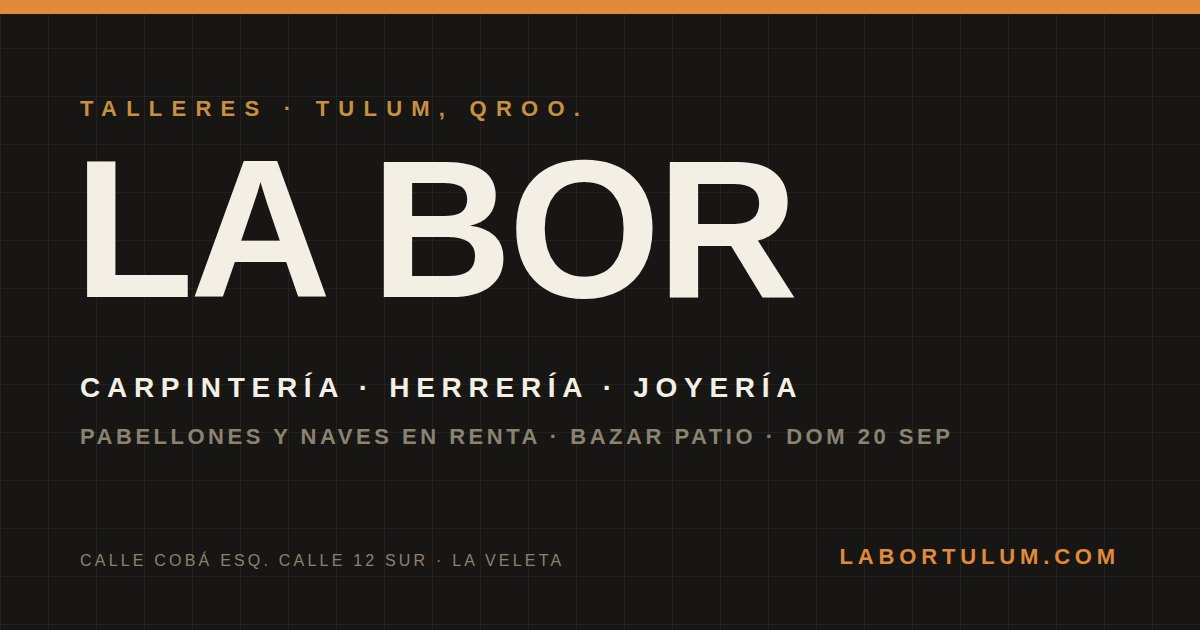
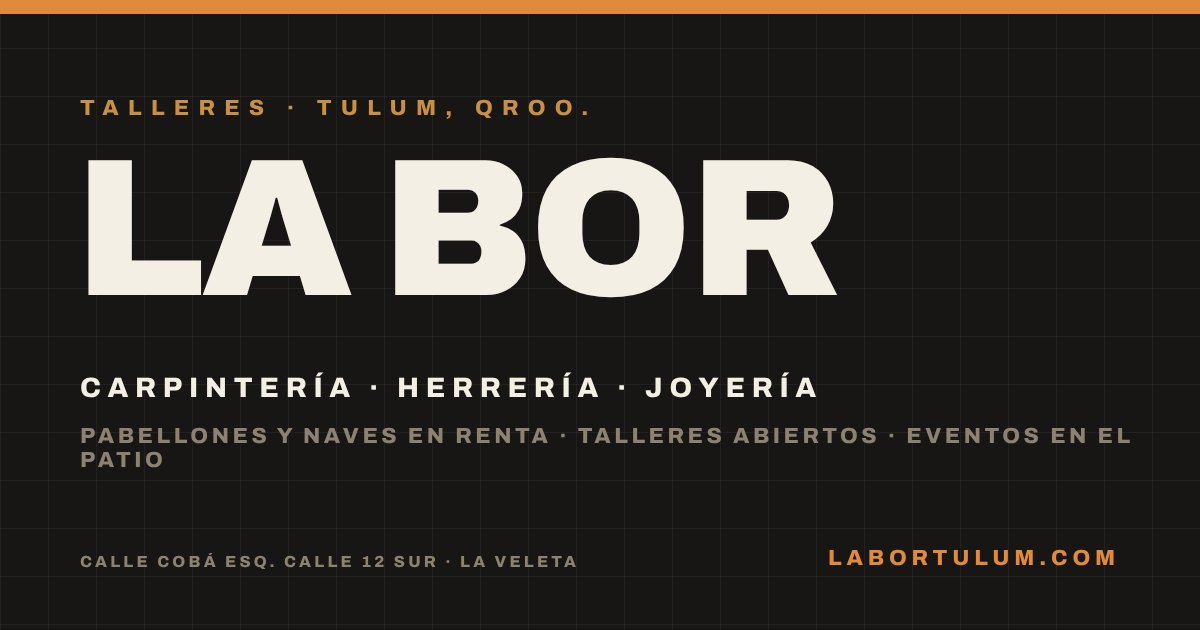
PATIO pasa a evidencia: ciclo de vida de eventos (próximo / hoy / pasado)
- events.ts: eventStatus, pastEvents, lastEvent, eventArchiveLabel; el
  evento guarda edición y recap. Se retira el forzado mounted (el patio
  se monta solo el día del evento).
- Sin próximo evento, el último se queda como evidencia: fila ÚLTIMO EN EL
  PATIO · YA PASÓ en el menú y pop-up con el cartel sellado "YA PASÓ ·
  20 SEP 2026", recap y CTAs AVISARME DEL PRÓXIMO / QUIERO UN STAND EN EL
  PRÓXIMO / PROPONER UN EVENTO (sin VOY ni calendario).
- /acerca/: sección "Eventos en el patio · ediciones anteriores", FAQ
  "¿Hay eventos en La Bor?", títulos y descripciones sin fecha futura.
  JSON-LD (index y acerca): FAQ y Event como 1ª edición. Sitemap y OG sin
  la fecha del bazar. README con la lógica.
- Prueba de ciclo de vida 15/15 (hoy, 17 sep y 20 sep con reloj fijo).

Claude-Session: https://claude.ai/code/session_01Y6s4hhFLXpUvd4QRDy2s3j

diff --git a/public/acerca/index.html b/public/acerca/index.html
@@ -3,8 +3,8 @@
   <head>
     <meta charset="UTF-8" />
     <meta name="viewport" content="width=device-width, initial-scale=1.0, maximum-scale=1.0, user-scalable=no, viewport-fit=cover" />
-    <title>Acerca de La Bor · Talleres, espacios en renta, bazar PATIO y ubicación en Tulum</title>
-    <meta name="description" content="Qué es La Bor, quiénes son sus talleres (VETA, MANNNO, CONTRASTE), cuánto cuesta rentar un pabellón o una nave en La Veleta, Tulum, cuándo es el bazar PATIO y cómo llegar. Contacto directo por WhatsApp." />
+    <title>Acerca de La Bor · Talleres, espacios en renta, eventos y ubicación en Tulum</title>
+    <meta name="description" content="Qué es La Bor, quiénes son sus talleres (VETA, MANNNO, CONTRASTE), cuánto cuesta rentar un pabellón o una nave en La Veleta, Tulum, qué fue el bazar PATIO y cómo llegar. Contacto directo por WhatsApp." />
     <meta name="keywords" content="talleres creativos Tulum, carpintería Tulum, herrería Tulum, joyería Tulum, renta de taller Tulum, nave en renta Tulum, estudio en renta La Veleta, bazar Tulum, La Bor, LaBor Tulum" />
     <link rel="canonical" href="https://www.labortulum.com/acerca/" />
     <meta name="robots" content="index, follow, max-image-preview:large, max-snippet:-1, max-video-preview:-1" />
@@ -16,16 +16,16 @@
     <meta property="og:type" content="article" />
     <meta property="og:site_name" content="La Bor — Talleres" />
     <meta property="og:locale" content="es_MX" />
-    <meta property="og:title" content="Acerca de La Bor · Talleres, espacios en renta, bazar PATIO y ubicación en Tulum" />
-    <meta property="og:description" content="Qué es La Bor, quiénes son sus talleres (VETA, MANNNO, CONTRASTE), cuánto cuesta rentar un pabellón o una nave en La Veleta, Tulum, cuándo es el bazar PATIO y cómo llegar. Contacto directo por WhatsApp." />
+    <meta property="og:title" content="Acerca de La Bor · Talleres, espacios en renta, eventos y ubicación en Tulum" />
+    <meta property="og:description" content="Qué es La Bor, quiénes son sus talleres (VETA, MANNNO, CONTRASTE), cuánto cuesta rentar un pabellón o una nave en La Veleta, Tulum, qué fue el bazar PATIO y cómo llegar. Contacto directo por WhatsApp." />
     <meta property="og:url" content="https://www.labortulum.com/acerca/" />
     <meta property="og:image" content="https://www.labortulum.com/og/labor-og.jpg" />
     <meta property="og:image:width" content="1200" />
     <meta property="og:image:height" content="630" />
     <meta property="og:image:alt" content="La Bor — Talleres creativos en Tulum" />
     <meta name="twitter:card" content="summary_large_image" />
-    <meta name="twitter:title" content="Acerca de La Bor · Talleres, espacios en renta, bazar PATIO y ubicación en Tulum" />
-    <meta name="twitter:description" content="Qué es La Bor, quiénes son sus talleres (VETA, MANNNO, CONTRASTE), cuánto cuesta rentar un pabellón o una nave en La Veleta, Tulum, cuándo es el bazar PATIO y cómo llegar. Contacto directo por WhatsApp." />
+    <meta name="twitter:title" content="Acerca de La Bor · Talleres, espacios en renta, eventos y ubicación en Tulum" />
+    <meta name="twitter:description" content="Qué es La Bor, quiénes son sus talleres (VETA, MANNNO, CONTRASTE), cuánto cuesta rentar un pabellón o una nave en La Veleta, Tulum, qué fue el bazar PATIO y cómo llegar. Contacto directo por WhatsApp." />
     <meta name="twitter:image" content="https://www.labortulum.com/og/labor-og.jpg" />
     <meta name="theme-color" content="#171614" />
     <meta name="apple-mobile-web-app-capable" content="yes" />
@@ -294,7 +294,7 @@
     {
       "@type": "Event",
       "@id": "https://www.labortulum.com/#patio-2026-09-20",
-      "name": "PATIO — Open workshop y bazar creativo en La Bor",
+      "name": "PATIO — Open workshop y bazar creativo en La Bor (1ª edición)",
       "startDate": "2026-09-20T17:00:00-05:00",
       "endDate": "2026-09-20T23:00:00-05:00",
       "eventStatus": "https://schema.org/EventScheduled",
@@ -302,7 +302,7 @@
       "image": [
         "https://www.labortulum.com/assets/events/patio-2026-09-20.jpg"
       ],
-      "description": "Bazar en el patio de La Bor con los talleres abiertos: diseño, objetos, comida, joyería, arte, moda y más. Domingo 20 de septiembre de 2026, de 5 a 11 pm. Entrada libre.",
+      "description": "Primera edición del bazar en el patio de La Bor con los talleres abiertos: diseño, objetos, comida, joyería, arte, moda y más. Domingo 20 de septiembre de 2026, de 5 a 11 pm. Entrada libre.",
       "location": {
         "@type": "Place",
         "name": "La Bor — Talleres",
@@ -343,7 +343,7 @@
         "price": "0",
         "priceCurrency": "MXN",
         "availability": "https://schema.org/InStock",
-        "url": "https://www.labortulum.com/acerca/#patio",
+        "url": "https://www.labortulum.com/acerca/#eventos",
         "validFrom": "2026-09-01T00:00:00-05:00"
       },
       "isAccessibleForFree": true,
@@ -387,10 +387,10 @@
         },
         {
           "@type": "Question",
-          "name": "¿Cuándo es el bazar PATIO?",
+          "name": "¿Hay eventos en La Bor?",
           "acceptedAnswer": {
             "@type": "Answer",
-            "text": "El domingo 20 de septiembre de 2026, de 5:00 a 11:00 pm, en el patio de La Bor. Open workshop y bazar creativo con diseño, objetos, comida, joyería, arte y moda. Entrada libre."
+            "text": "Sí. La primera edición del bazar PATIO fue el domingo 20 de septiembre de 2026, de 5 a 11 pm, con los tres talleres abiertos y entrada libre. El próximo evento se anuncia en labortulum.com y por WhatsApp al +52 55 3037 4167."
           }
         },
         {
@@ -477,7 +477,7 @@
           <a class="btn btn--plain" href="https://maps.app.goo.gl/6VRuvk6EfHDT1byW8" target="_blank" rel="noreferrer">CÓMO LLEGAR · GOOGLE MAPS</a>
         </div>
         <nav class="toc" aria-label="Secciones">
-          <a href="#talleres">TALLERES</a><a href="#espacios">ESPACIOS EN RENTA</a><a href="#patio">BAZAR PATIO</a><a href="#ubicacion">UBICACIÓN</a><a href="#faq">PREGUNTAS</a><a href="#contacto">CONTACTO</a>
+          <a href="#talleres">TALLERES</a><a href="#espacios">ESPACIOS EN RENTA</a><a href="#eventos">EVENTOS</a><a href="#ubicacion">UBICACIÓN</a><a href="#faq">PREGUNTAS</a><a href="#contacto">CONTACTO</a>
         </nav>
       </header>
 
@@ -539,17 +539,18 @@
         </div>
       </section>
 
-      <section id="patio">
-        <h2>Bazar PATIO · domingo 20 de septiembre</h2>
+      <section id="eventos">
+        <h2>Eventos en el patio · ediciones anteriores</h2>
         <figure>
-          <img src="/assets/events/patio-2026-09-20.jpg" width="900" height="1600" alt="Cartel del bazar PATIO en La Bor: domingo 20 de septiembre, 5 a 11 pm, La Veleta, Tulum" loading="lazy" />
-          <figcaption>Open workshop / creative bazaar · Design · Objects · Food · People · Jewelry · Art · Fashion &amp; more.</figcaption>
+          <img src="/assets/events/patio-2026-09-20.jpg" width="900" height="1600" alt="Cartel de PATIO, primera edición del bazar en La Bor: domingo 20 de septiembre de 2026, La Veleta, Tulum" loading="lazy" />
+          <figcaption>PATIO · 1ª edición · domingo 20 de septiembre de 2026 · ya pasó.</figcaption>
         </figure>
-        <p><strong>Domingo 20 de septiembre de 2026, de 5:00 a 11:00 pm</strong>, en el patio de La Bor (La Veleta, Tulum). Los talleres abren sus puertas y el patio se llena de marcas invitadas, comida y música. Entrada libre.</p>
+        <p>La primera edición de <strong>PATIO</strong> abrió los tres talleres al público una tarde de domingo: diseño, objetos, comida, joyería, arte y moda en el patio de La Bor, con entrada libre. Fue la prueba de que aquí pasan cosas.</p>
+        <p>El próximo evento se anuncia en esta página, en el recorrido y por WhatsApp. Si quieres que te avisemos o poner un stand en el siguiente, escríbenos.</p>
         <div class="btns">
-          <a class="btn btn--primary" href="https://wa.me/525530374167?text=Hola%20La%20Bor%2C%20voy%20al%20bazar%20PATIO%20el%20domingo%2020%20de%20septiembre%20%285%20a%2011%20pm%29.%20Somos%20___%20personas." target="_blank" rel="noreferrer">VOY · CONFIRMAR POR WHATSAPP</a>
-          <a class="btn" href="https://wa.me/525530374167?text=Hola%20La%20Bor%2C%20quiero%20poner%20un%20stand%20en%20el%20bazar%20PATIO%20del%20domingo%2020%20de%20septiembre.%20Mi%20marca%20/%20lo%20que%20vendo%3A%20___." target="_blank" rel="noreferrer">QUIERO PONER UN STAND</a>
-          <a class="btn btn--plain" href="https://calendar.google.com/calendar/render?action=TEMPLATE&amp;text=PATIO+%C2%B7+BAZAR+en+La+Bor&amp;dates=20260920T220000Z/20260921T040000Z&amp;details=Bazar+en+el+patio+de+La+Bor+con+los+talleres+abiertos.+Entrada+libre.&amp;location=La+Bor%2C+Calle+Cob%C3%A1+esq.+Calle+12+Sur%2C+La+Veleta%2C+Tulum" target="_blank" rel="noreferrer">AGREGAR AL CALENDARIO</a>
+          <a class="btn btn--primary" href="https://wa.me/525530374167?text=Hola%20La%20Bor%2C%20av%C3%ADsenme%20del%20pr%C3%B3ximo%20evento%20en%20el%20patio.%20Me%20interesa%3A%20___%20(ir%20%2F%20poner%20stand)." target="_blank" rel="noreferrer">AVISARME DEL PRÓXIMO</a>
+          <a class="btn" href="https://wa.me/525530374167?text=Hola%20La%20Bor%2C%20quiero%20poner%20un%20stand%20en%20el%20pr%C3%B3ximo%20bazar%20PATIO.%20Mi%20marca%20%2F%20lo%20que%20vendo%3A%20___." target="_blank" rel="noreferrer">QUIERO UN STAND EN EL PRÓXIMO</a>
+          <a class="btn btn--plain" href="https://wa.me/525530374167?text=Hola%20La%20Bor%2C%20quiero%20proponer%20un%20evento%20en%20el%20patio%3A%20___%20(fecha%20tentativa%3A%20___)." target="_blank" rel="noreferrer">PROPONER UN EVENTO</a>
         </div>
       </section>
 
@@ -574,7 +575,7 @@
         <details><summary>¿Dónde está?</summary><p>En Calle Cobá esquina Calle 12 Sur, La Veleta, Tulum, Quintana Roo (CP 77760). <a href="https://maps.app.goo.gl/6VRuvk6EfHDT1byW8" target="_blank" rel="noreferrer">Ver en Google Maps</a>.</p></details>
         <details><summary>¿Cuánto cuesta rentar un pabellón o una nave?</summary><p>Pabellones chicos (42–46 m²): $8,000 MXN al mes con contrato de un año o $10,000 a seis meses. Pabellones grandes (80 m² con terraza): $12,000 al mes a un año o $15,000 a seis meses. Naves de 95 a 117 m²: a cotizar. Precios de referencia; se confirman por WhatsApp.</p></details>
         <details><summary>¿Qué talleres hay?</summary><p>VETA (carpintería, Pablo: +52 33 3350 7799), MANNNO (herrería, Azul: +52 33 1266 3462) y CONTRASTE ATELIER (joyería, Emilio: +52 55 3037 4167).</p></details>
-        <details><summary>¿Cuándo es el bazar PATIO?</summary><p>El domingo 20 de septiembre de 2026, de 5 a 11 pm, en el patio de La Bor. Entrada libre.</p></details>
+        <details><summary>¿Hay eventos en La Bor?</summary><p>Sí. La primera edición del bazar PATIO fue el domingo 20 de septiembre de 2026 (5 a 11 pm, entrada libre), con los tres talleres abiertos. El próximo se anuncia en labortulum.com y por WhatsApp al +52 55 3037 4167.</p></details>
         <details><summary>¿Cómo agendo una visita o pido informes?</summary><p>Por WhatsApp al +52 55 3037 4167 o por correo a labortulum@gmail.com. O entra al <a href="/">recorrido</a> y habla con la persona de cada taller.</p></details>
         <details><summary>¿Qué es el recorrido de labortulum.com?</summary><p>Un recorrido 2D del complejo real, trazado a partir del plano: caminas por el patio, entras a los talleres, juegas para armar el reloj de sol LA HORA y contactas a cada taller por WhatsApp desde el mismo juego.</p></details>
       </section>

diff --git a/src/components/experience/EventPopup.tsx b/src/components/experience/EventPopup.tsx
@@ -1,5 +1,5 @@
-import { calendarUrl, eventDateLabel, eventRelativeLabel, eventTimeLabel, nextEvent } from "../../data/events"
-import { eventProposalLink, mapsLink, rsvpLink, vendorLink } from "../../data/leads"
+import { calendarUrl, eventArchiveLabel, eventDateLabel, eventRelativeLabel, eventTimeLabel, lastEvent, nextEvent } from "../../data/events"
+import { eventProposalLink, mapsLink, notifyNextEventLink, rsvpLink, vendorLink, vendorNextEventLink } from "../../data/leads"
 import { CONTACT } from "../../data/spaces"
 
 interface EventPopupProps {
@@ -13,8 +13,10 @@ interface EventPopupProps {
  */
 export function EventPopup({ onClose }: EventPopupProps) {
   const ev = nextEvent()
+  // sin próximo: el último que pasó se queda como evidencia (cartel con sello YA PASÓ)
+  const past = ev ? null : lastEvent()
   return (
-    <div className="popup" role="dialog" aria-modal="true" aria-label={ev ? `${ev.kind} ${ev.name}` : "Eventos"}>
+    <div className="popup" role="dialog" aria-modal="true" aria-label={ev ? `${ev.kind} ${ev.name}` : past ? `${past.kind} ${past.name} · ya pasó` : "Eventos"}>
       <button type="button" className="popup__backdrop" onClick={onClose} aria-label="Cerrar" />
       <div className="popup__card">
         <button type="button" className="overlay__close popup__close" onClick={onClose} aria-label="Cerrar">
@@ -47,6 +49,38 @@ export function EventPopup({ onClose }: EventPopupProps) {
                 </a>
               </div>
               <p className="popup__legend">Entrada libre · Dudas por WhatsApp {CONTACT.phoneDisplay}</p>
+            </div>
+          </>
+        ) : past ? (
+          <>
+            {past.poster && (
+              <div className="popup__poster-wrap">
+                <img className="popup__poster popup__poster--past" src={past.poster} alt={`Cartel ${past.kind} ${past.name}, ${eventArchiveLabel(past)}`} />
+                <span className="popup__stamp">YA PASÓ · {eventArchiveLabel(past)}</span>
+              </div>
+            )}
+            <div className="popup__body">
+              <p className="popup__kicker">
+                ÚLTIMO EN EL PATIO · {past.kind}
+                {past.edition ? ` · ${past.edition}` : ""}
+              </p>
+              <p className="popup__when">
+                {eventDateLabel(past)} {past.date.slice(0, 4)} · {eventTimeLabel(past)}
+              </p>
+              {past.recap && <p className="popup__place">{past.recap}</p>}
+              {past.lineup && <p className="popup__lineup">{past.lineup}</p>}
+              <div className="popup__ctas">
+                <a className="overlay__cta overlay__cta--primary overlay__cta--wa" href={notifyNextEventLink()} target="_blank" rel="noreferrer">
+                  AVISARME DEL PRÓXIMO
+                </a>
+                <a className="overlay__cta" href={vendorNextEventLink()} target="_blank" rel="noreferrer">
+                  QUIERO UN STAND EN EL PRÓXIMO
+                </a>
+                <a className="overlay__cta overlay__cta--plain" href={eventProposalLink()} target="_blank" rel="noreferrer">
+                  PROPONER UN EVENTO
+                </a>
+              </div>
+              <p className="popup__legend">El próximo se anuncia aquí y por WhatsApp {CONTACT.phoneDisplay}</p>
             </div>
           </>
         ) : (

diff --git a/index.html b/index.html
@@ -294,7 +294,7 @@
     {
       "@type": "Event",
       "@id": "https://www.labortulum.com/#patio-2026-09-20",
-      "name": "PATIO — Open workshop y bazar creativo en La Bor",
+      "name": "PATIO — Open workshop y bazar creativo en La Bor (1ª edición)",
       "startDate": "2026-09-20T17:00:00-05:00",
       "endDate": "2026-09-20T23:00:00-05:00",
       "eventStatus": "https://schema.org/EventScheduled",
@@ -302,7 +302,7 @@
       "image": [
         "https://www.labortulum.com/assets/events/patio-2026-09-20.jpg"
       ],
-      "description": "Bazar en el patio de La Bor con los talleres abiertos: diseño, objetos, comida, joyería, arte, moda y más. Domingo 20 de septiembre de 2026, de 5 a 11 pm. Entrada libre.",
+      "description": "Primera edición del bazar en el patio de La Bor con los talleres abiertos: diseño, objetos, comida, joyería, arte, moda y más. Domingo 20 de septiembre de 2026, de 5 a 11 pm. Entrada libre.",
       "location": {
         "@type": "Place",
         "name": "La Bor — Talleres",
@@ -343,7 +343,7 @@
         "price": "0",
         "priceCurrency": "MXN",
         "availability": "https://schema.org/InStock",
-        "url": "https://www.labortulum.com/acerca/#patio",
+        "url": "https://www.labortulum.com/acerca/#eventos",
         "validFrom": "2026-09-01T00:00:00-05:00"
       },
       "isAccessibleForFree": true,
@@ -387,10 +387,10 @@
         },
         {
           "@type": "Question",
-          "name": "¿Cuándo es el bazar PATIO?",
+          "name": "¿Hay eventos en La Bor?",
           "acceptedAnswer": {
             "@type": "Answer",
-            "text": "El domingo 20 de septiembre de 2026, de 5:00 a 11:00 pm, en el patio de La Bor. Open workshop y bazar creativo con diseño, objetos, comida, joyería, arte y moda. Entrada libre."
+            "text": "Sí. La primera edición del bazar PATIO fue el domingo 20 de septiembre de 2026, de 5 a 11 pm, con los tres talleres abiertos y entrada libre. El próximo evento se anuncia en labortulum.com y por WhatsApp al +52 55 3037 4167."
           }
         },
         {
@@ -421,7 +421,7 @@
       <main style="font-family: Arial, sans-serif; padding: 24px; max-width: 720px; margin: 0 auto; color: #f4efe4; background: #171614">
         <h1>La Bor — Talleres creativos en Tulum</h1>
         <p>Complejo de talleres en La Veleta, Tulum: VETA (carpintería), MANNNO (herrería) y CONTRASTE ATELIER (joyería). Pabellones y naves en renta desde $8,000 MXN al mes y un patio de eventos. El recorrido interactivo necesita JavaScript.</p>
-        <p><a href="/acerca/" style="color: #e08a3c">Toda la información: talleres, espacios, precios, bazar PATIO, ubicación y contacto</a></p>
+        <p><a href="/acerca/" style="color: #e08a3c">Toda la información: talleres, espacios, precios, eventos, ubicación y contacto</a></p>
         <p>WhatsApp <a href="https://wa.me/525530374167" style="color: #e08a3c">+52 55 3037 4167</a> · <a href="mailto:labortulum@gmail.com" style="color: #e08a3c">labortulum@gmail.com</a></p>
       </main>
     </noscript>

diff --git a/src/data/events.ts b/src/data/events.ts
@@ -23,7 +23,12 @@ export interface LaborEvent {
   lineup?: string
   /** el patio ya muestra el evento montado (si no, se monta solo el día del evento) */
   mounted?: boolean
+  /** edición ("1ª EDICIÓN") y resumen de cómo fue: se muestran cuando el evento ya pasó (evidencia) */
+  edition?: string
+  recap?: string
 }
+
+export type EventStatus = "upcoming" | "today" | "live" | "past"
 
 export const EVENTS: LaborEvent[] = [
   {
@@ -37,9 +42,11 @@ export const EVENTS: LaborEvent[] = [
     poster: "/assets/events/patio-2026-09-20.jpg",
     tagline: "OPEN WORKSHOP / CREATIVE BAZAAR",
     lineup: "DESIGN · OBJECTS · FOOD · PEOPLE · JEWELRY · ART · FASHION & MORE",
-    mounted: true,
+    edition: "1ª EDICIÓN",
     description:
       "Bazar en el patio con los talleres abiertos: joyería de CONTRASTE, madera de VETA, metal de MANNNO y marcas invitadas. Entrada libre.",
+    recap:
+      "La primera edición de PATIO abrió los tres talleres al público una tarde de domingo: diseño, objetos, comida, joyería, arte y moda en el patio de La Bor. Fue la prueba de que aquí pasan cosas. El próximo se anuncia aquí y por WhatsApp.",
   },
 ]
 
@@ -130,4 +137,29 @@ export function eventSoonLabel(ev: LaborEvent, now: Date = new Date()): string {
 /** el evento ya está montado en el patio: forzado con `mounted` o el mismo día */
 export function isEventMounted(ev: LaborEvent, now: Date = new Date()): boolean {
   return ev.mounted === true || daysUntil(ev, now).days <= 0
+}
+
+/** estado del evento según el calendario de Tulum: próximo, hoy, en curso o pasado */
+export function eventStatus(ev: LaborEvent, now: Date = new Date()): EventStatus {
+  const start = localDate(ev, ev.start).getTime()
+  const end = localDate(ev, ev.end).getTime()
+  const t = now.getTime()
+  if (t >= end) return "past"
+  if (t >= start) return "live"
+  return daysUntil(ev, now).days <= 0 ? "today" : "upcoming"
+}
+
+/** eventos que ya pasaron, del más reciente al más antiguo (ediciones anteriores) */
+export function pastEvents(now: Date = new Date()): LaborEvent[] {
+  return EVENTS.filter((e) => !isUpcoming(e, now)).sort((a, b) => b.date.localeCompare(a.date))
+}
+
+export function lastEvent(now: Date = new Date()): LaborEvent | null {
+  return pastEvents(now)[0] ?? null
+}
+
+/** "20 SEP 2026": fecha corta con año, para ediciones anteriores */
+export function eventArchiveLabel(ev: LaborEvent): string {
+  const [y, m, d] = ev.date.split("-").map(Number)
+  return `${d} ${MONTHS[m - 1].slice(0, 3)} ${y}`
 }

diff --git a/src/components/experience/FastMenu.tsx b/src/components/experience/FastMenu.tsx
@@ -1,5 +1,5 @@
 import { AVAILABLE, CONTACT, RESIDENTS, mailLink, whatsappLink } from "../../data/spaces"
-import { eventShortLabel, nextEvent } from "../../data/events"
+import { eventArchiveLabel, eventShortLabel, lastEvent, nextEvent } from "../../data/events"
 import { fromPrice, mapsLink, mxn } from "../../data/leads"
 import { PIEZA_CENTRAL } from "../../data/missions"
 import { UNLOCK_MISSION_ID } from "../../data/music"
@@ -33,6 +33,7 @@ export function FastMenu({ open, setOpen, onTravel, onDirect, onChangeAvatar }: 
   // la pista se desbloquea al terminar LA HORA (queda en el perfil)
   const unlocked = (prof.completed[UNLOCK_MISSION_ID] ?? 0) > 0 || run?.completed === true
   const ev = nextEvent()
+  const past = ev ? null : lastEvent()
 
   const Item = ({ id, label, meta, direct, reserved }: { id: string; label: string; meta?: string; direct?: boolean; reserved?: boolean }) => {
     const visited = prof.visited.includes(id)
@@ -91,6 +92,22 @@ export function FastMenu({ open, setOpen, onTravel, onDirect, onChangeAvatar }: 
                         {ev.kind} · {ev.name}
                       </span>
                       <span className="menu__item-meta">{eventShortLabel(ev)}</span>
+                    </button>
+                  </li>
+                </ul>
+              </>
+            )}
+
+            {!ev && past && (
+              <>
+                <p className="menu__section">ÚLTIMO EN EL PATIO</p>
+                <ul className="menu__list">
+                  <li>
+                    <button type="button" className="menu__item menu__item--past" onClick={() => onDirect("eventos-board")}>
+                      <span className="menu__item-label">
+                        {past.kind} · {past.name}
+                      </span>
+                      <span className="menu__item-meta">{eventArchiveLabel(past)} · YA PASÓ</span>
                     </button>
                   </li>
                 </ul>

diff --git a/src/styles/game.css b/src/styles/game.css
@@ -1598,3 +1598,30 @@
     padding-top: 4px;
   }
 }
+
+/* ---- evento pasado: cartel con sello (evidencia) ----------------------- */
+.popup__poster-wrap {
+  position: relative;
+}
+.popup__poster--past {
+  filter: saturate(0.82) contrast(0.96);
+}
+.popup__stamp {
+  position: absolute;
+  top: 16px;
+  left: 16px;
+  transform: rotate(-7deg);
+  padding: 7px 11px;
+  border: 2px solid var(--rust);
+  border-radius: 4px;
+  background: rgba(244, 239, 228, 0.88);
+  color: var(--rust);
+  font-size: 11px;
+  font-weight: 900;
+  letter-spacing: 0.18em;
+  text-indent: 0.18em;
+  box-shadow: 0 6px 18px rgba(0, 0, 0, 0.2);
+}
+.menu__item--past .menu__item-meta {
+  color: var(--muted-2);
+}

diff --git a/src/data/leads.ts b/src/data/leads.ts
@@ -101,3 +101,12 @@ export function instagramHandle(url: string): string {
   const m = url.match(/instagram\.com\/([^/?#]+)/)
   return m ? `@${m[1]}` : "INSTAGRAM"
 }
+
+/** lista para el próximo evento del patio (cuando no hay fecha anunciada) */
+export function notifyNextEventLink(): string {
+  return whatsappLink("Hola La Bor, avísenme del próximo evento en el patio. Me interesa: ___ (ir / poner stand).")
+}
+
+export function vendorNextEventLink(): string {
+  return whatsappLink("Hola La Bor, quiero poner un stand en el próximo bazar PATIO. Mi marca / lo que vendo: ___.")
+}

diff --git a/README.md b/README.md
@@ -176,6 +176,18 @@ pausar se recuerda en `labor.audio.v1`. Para agregar pistas basta añadirlas a `
   exclamación ocre entra con pop, rebota y manda un anillo cada 2.4 s sobre el
   letrero de eventos; el aviso de entrada dice "¡MIRA EL LETRERO!". Se disuelve
   con chispas al abrir el anuncio (una vez por visita).
+- **Ciclo de vida de eventos** (`src/data/events.ts`): cada evento pasa solo
+  por próximo → hoy → en curso → pasado (`eventStatus`, `nextEvent`,
+  `lastEvent`, `pastEvents`). Con un evento próximo: aviso al entrar, "!" en
+  el letrero, fila PRÓXIMO EN EL PATIO en el menú, pop-up con cartel y CTAs
+  (VOY, STAND, CALENDARIO, CÓMO LLEGAR) y montaje con cajas en el patio. El
+  día del evento: bazar montado. Cuando pasa: el patio vuelve a la normalidad
+  y el último evento se queda como **evidencia** (fila ÚLTIMO EN EL PATIO ·
+  YA PASÓ, pop-up con el cartel sellado "YA PASÓ · 20 SEP 2026", edición y
+  `recap`, CTAs AVISARME DEL PRÓXIMO / STAND EN EL PRÓXIMO / PROPONER). En
+  `/acerca/` vive la sección "Eventos en el patio · ediciones anteriores".
+  Para anunciar el siguiente basta agregar un objeto a `EVENTS` (y su cartel
+  en `public/assets/events/`), y actualizar `/acerca/` y el JSON-LD a mano.
 - **Bazar montado** (interpretación, sin marcas ni links): el día del evento
   (o con `mounted: true` en el evento) el patio muestra dos filas de puestos
   genéricos al sur del reloj (`STALL_ROWS` / `STALL_XS`, texturas `stall-a` y
